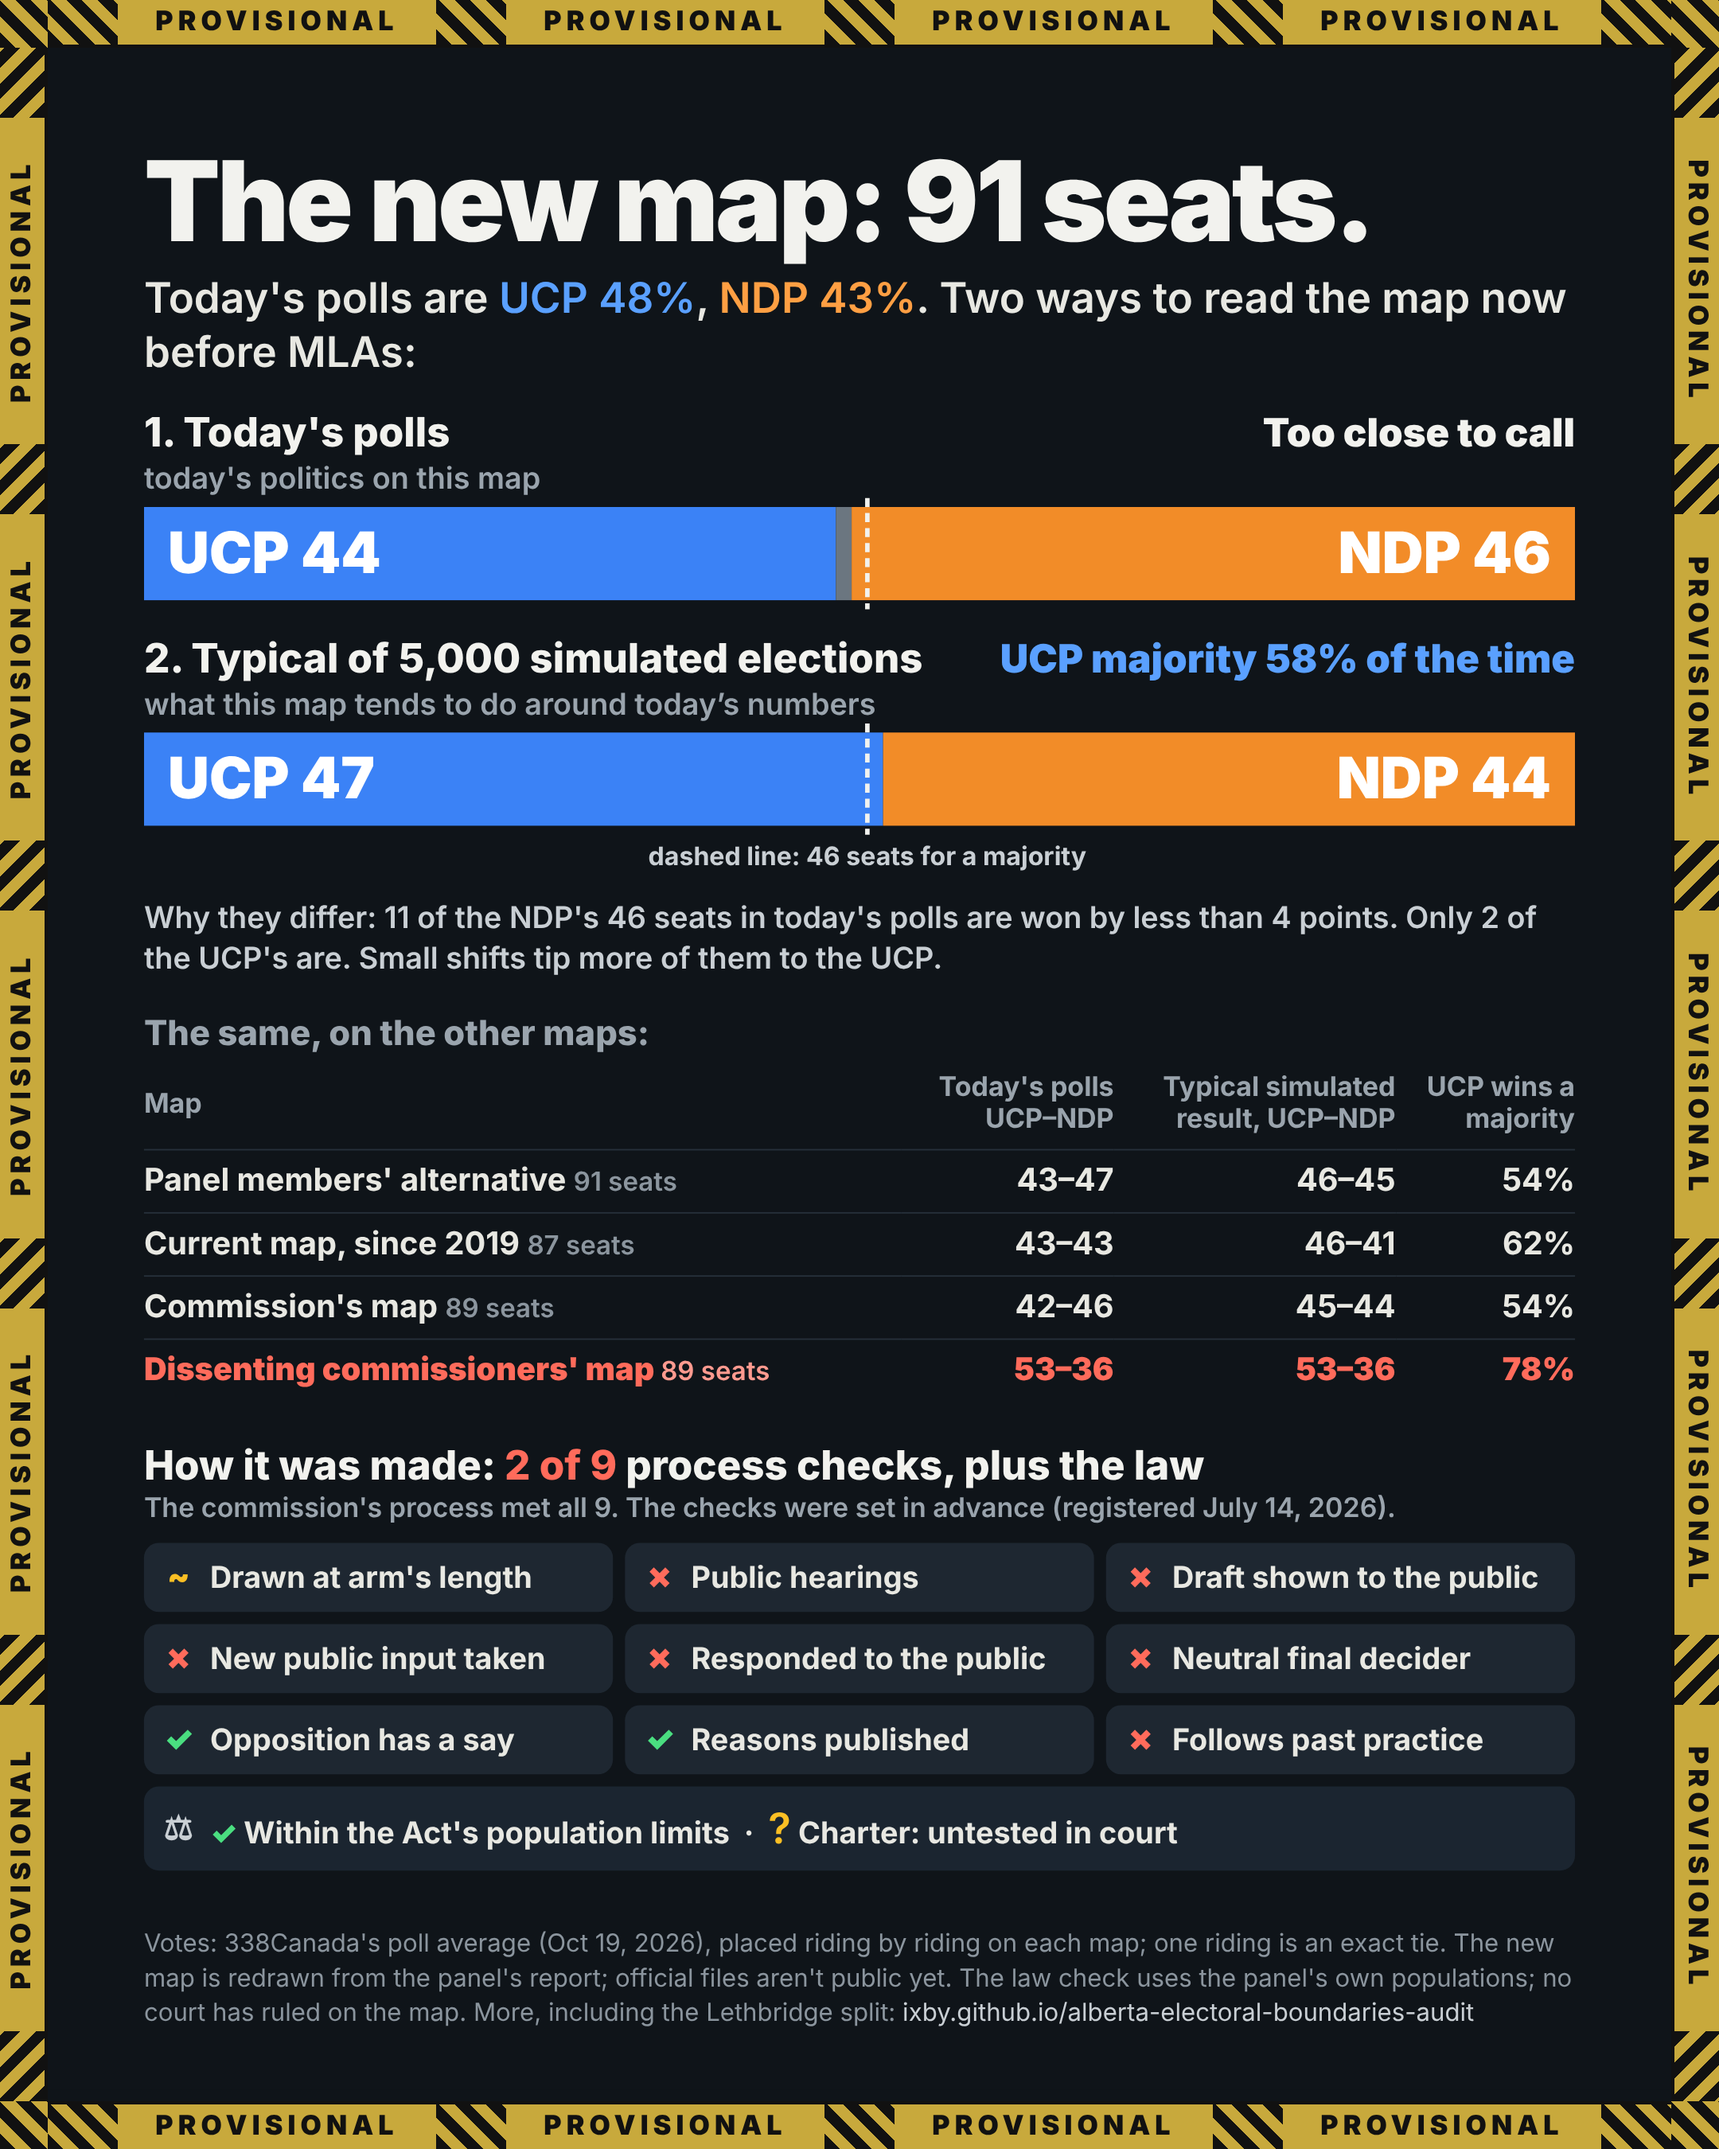
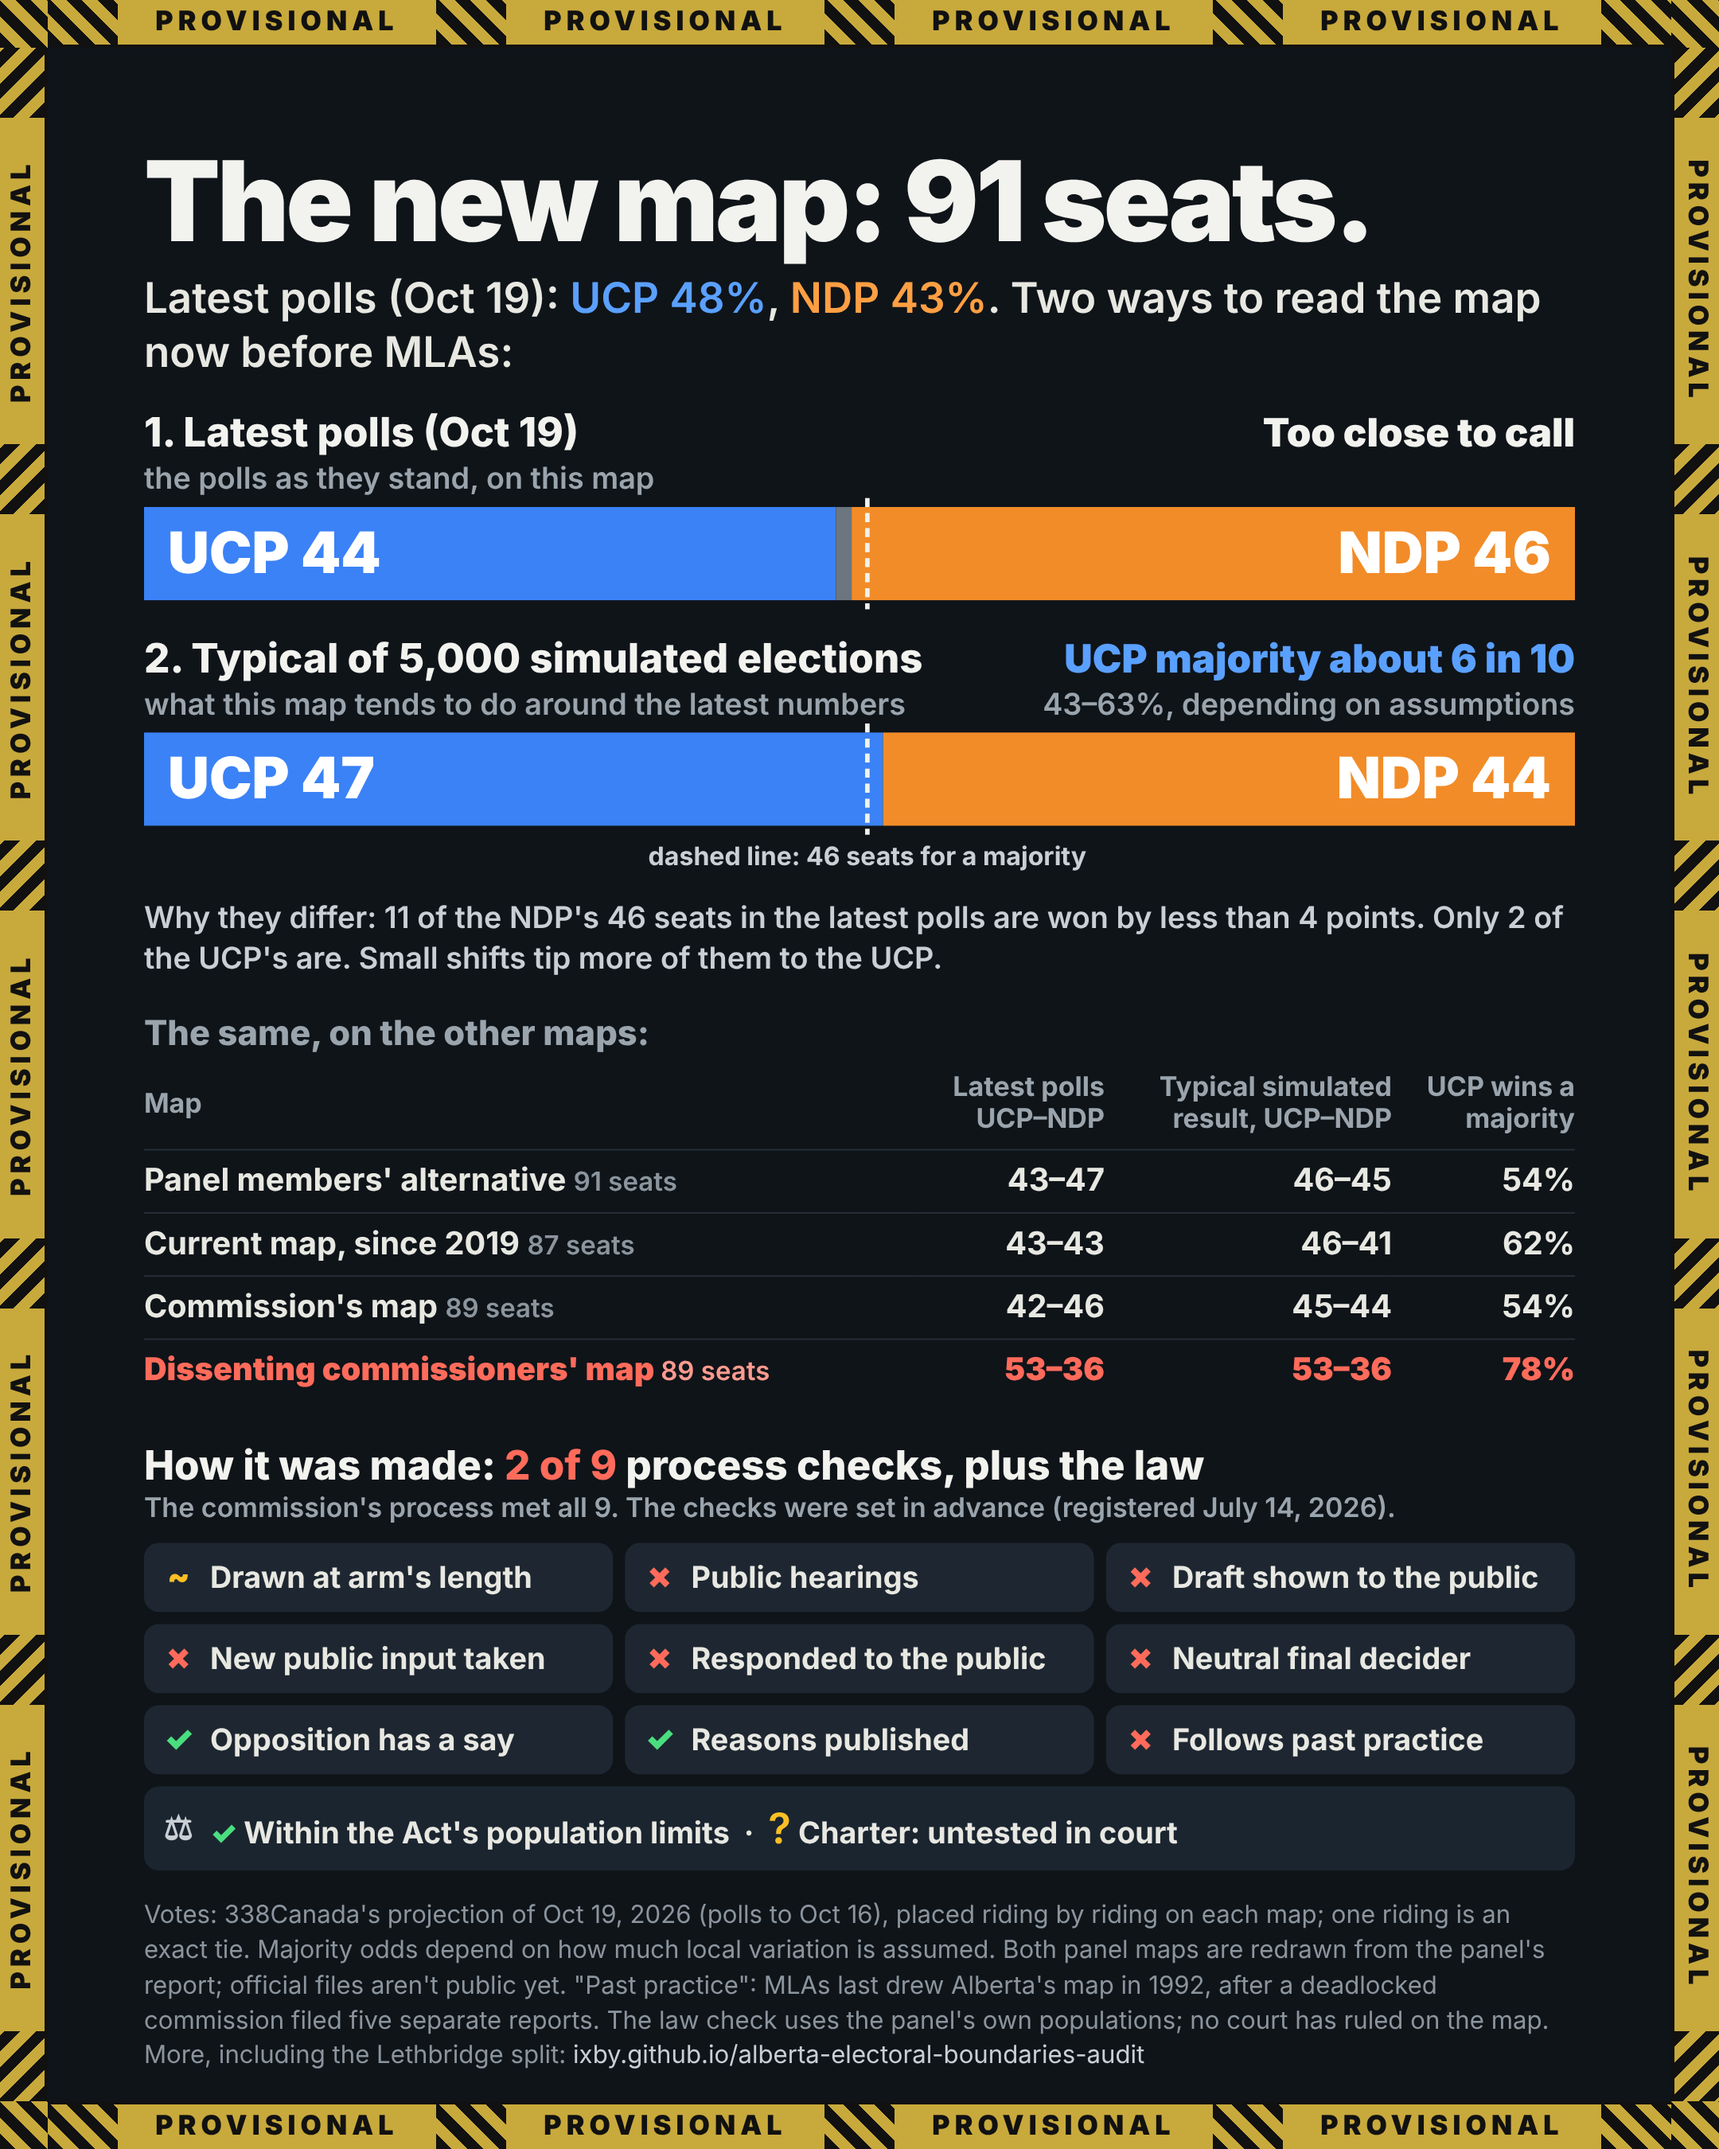
Meme: range for the majority odds, dated polls, both panel maps redrawn, 1992
- "UCP majority 58% of the time" becomes "about 6 in 10", with
  "43–63%, depending on assumptions" beneath it (no riding noise 43%,
  riding noise x1.5 63%).
- "Today's polls" becomes "Latest polls (Oct 19)"; the footer calls it
  338Canada's projection, with polls to Oct 16.
- The footer says both panel maps are redrawn from the panel's report.
- The footer gives the 1992 counter to "Follows past practice".

Items 2 (commission's 9 of 9 by construction) and 6 (48–43 rounding)
left as they were, at Wuff's request.

Claude-Session: https://claude.ai/code/session_018fR2piQUSLgKm3yG7SKLG7

diff --git a/findings/p338_projection/meme/same_votes_five_maps.html b/findings/p338_projection/meme/same_votes_five_maps.html
@@ -50,12 +50,12 @@
 </style></head>
 <body><div class="frame"><div class="inner"><div class="card">
   <h1>The new map: 91 seats.</h1>
-  <div class="q">Today's polls are <span class="u">UCP 48%</span>, <span class="n">NDP 43%</span>. Two ways to read the map now before MLAs:</div>
+  <div class="q">Latest polls (Oct 19): <span class="u">UCP 48%</span>, <span class="n">NDP 43%</span>. Two ways to read the map now before MLAs:</div>
   <svg id="main" width="952" height="318" viewBox="0 0 952 318"></svg>
-  <div class="why">Why they differ: 11 of the NDP's 46 seats in today's polls are won by less than 4 points. Only 2 of the UCP's are. Small shifts tip more of them to the UCP.</div>
+  <div class="why">Why they differ: 11 of the NDP's 46 seats in the latest polls are won by less than 4 points. Only 2 of the UCP's are. Small shifts tip more of them to the UCP.</div>
   <div class="ref">The same, on the other maps:</div>
   <table>
-    <tr><th>Map</th><th>Today's polls<br>UCP–NDP</th><th>Typical simulated<br>result, UCP–NDP</th><th>UCP wins a<br>majority</th></tr>
+    <tr><th>Map</th><th>Latest polls<br>UCP–NDP</th><th>Typical simulated<br>result, UCP–NDP</th><th>UCP wins a<br>majority</th></tr>
     <tr><td>Panel members' alternative <small>91 seats</small></td><td>43–47</td><td>46–45</td><td>54%</td></tr>
     <tr><td>Current map, since 2019 <small>87 seats</small></td><td>43–43</td><td>46–41</td><td>62%</td></tr>
     <tr><td>Commission's map <small>89 seats</small></td><td>42–46</td><td>45–44</td><td>54%</td></tr>
@@ -77,7 +77,7 @@
       <div class="c law"><i>⚖</i><span><b class="ok">✓</b> Within the Act's population limits &nbsp;·&nbsp; <b class="q">?</b> Charter: untested in court</span></div>
     </div>
   </div>
-  <div class="foot">Votes: 338Canada's poll average (Oct 19, 2026), placed riding by riding on each map; one riding is an exact tie. The new map is redrawn from the panel's report; official files aren't public yet. The law check uses the panel's own populations; no court has ruled on the map. More, including the Lethbridge split: <span style="white-space:nowrap;color:#c9cfd4">ixby.github.io/alberta-electoral-boundaries-audit</span></div>
+  <div class="foot">Votes: 338Canada's projection of Oct 19, 2026 (polls to Oct 16), placed riding by riding on each map; one riding is an exact tie. Majority odds depend on how much local variation is assumed. Both panel maps are redrawn from the panel's report; official files aren't public yet. "Past practice": MLAs last drew Alberta's map in 1992, after a deadlocked commission filed five separate reports. The law check uses the panel's own populations; no court has ruled on the map. More, including the Lethbridge split: <span style="white-space:nowrap;color:#c9cfd4">ixby.github.io/alberta-electoral-boundaries-audit</span></div>
 </div></div>
   <div class="band b-top"><span class="st"></span><span class="w">PROVISIONAL</span><span class="st"></span><span class="w">PROVISIONAL</span><span class="st"></span><span class="w">PROVISIONAL</span><span class="st"></span><span class="w">PROVISIONAL</span><span class="st"></span></div>
   <div class="band b-bot"><span class="st"></span><span class="w">PROVISIONAL</span><span class="st"></span><span class="w">PROVISIONAL</span><span class="st"></span><span class="w">PROVISIONAL</span><span class="st"></span><span class="w">PROVISIONAL</span><span class="st"></span></div>
@@ -103,8 +103,9 @@ function bar(y, u, t, n, title, sub, verdict, vcol) {
   el('text', {x: W - 16, y: by + 44, fill: '#fff', 'font-size': 38, 'font-weight': 900, 'text-anchor': 'end'}, 'NDP ' + n);
   el('line', {x1: NEED * s, y1: by - 6, x2: NEED * s, y2: by + h + 6, stroke: '#f2f2ee', 'stroke-width': 3, 'stroke-dasharray': '6 4'});
 }
-bar(0, 44, 1, 46, "1. Today's polls", "today's politics on this map", 'Too close to call', '#f2f2ee');
-bar(150, 47, 0, 44, '2. Typical of 5,000 simulated elections', 'what this map tends to do around today’s numbers', 'UCP majority 58% of the time', '#5aa0ff');
+bar(0, 44, 1, 46, '1. Latest polls (Oct 19)', 'the polls as they stand, on this map', 'Too close to call', '#f2f2ee');
+bar(150, 47, 0, 44, '2. Typical of 5,000 simulated elections', 'what this map tends to do around the latest numbers', 'UCP majority about 6 in 10', '#5aa0ff');
+el('text', {x: W, y: 150 + 54, fill: '#9aa4ad', 'font-size': 20, 'font-weight': 600, 'text-anchor': 'end'}, '43–63%, depending on assumptions');
 el('text', {x: NEED * s, y: 304, fill: '#c9cfd4', 'font-size': 17, 'font-weight': 700, 'text-anchor': 'middle'}, 'dashed line: 46 seats for a majority');
 </script>
 </body></html>

diff --git a/findings/p338_projection/README.md b/findings/p338_projection/README.md
@@ -150,13 +150,13 @@ All files are in this folder, `p338/sim/`.
 
 `data/maps/article/same_votes_five_maps.png` (1080×1350, rendered at 2×) is for a general reader. It centres on the panel's 91-seat map now before MLAs and reads it two ways, as Wuff framed it: one view speaks to today's politics on the map, the other to the map itself.
 
-1. **Today's polls** (today's politics on this map): UCP 44, NDP 46, 1 exact tie. Source: `out/results.json` `point.panel.proportional`. With NDP exactly on the 46-seat majority line and one tie, the chart calls it "Too close to call".
-2. **Typical of 5,000 simulated elections** (what this map tends to do around today's numbers): UCP 47, NDP 44; the UCP wins a majority 58% of the time. Source: `mc.main.maps.panel` `ucp_median`, `ndp_median` and `p_ucp_majority`.
-3. **Why they differ:** at today's numbers, 11 of the NDP's 46 projected wins on this map are by less than 4 points, against 2 of the UCP's 44 (`out/districts_panel.csv`). Polling error tips more of the NDP's narrow leads.
+1. **Latest polls (Oct 19)** (the polls as they stand, on this map): UCP 44, NDP 46, 1 exact tie. The label is 338Canada's update date; its newest poll was Mainstreet, Oct 16 (`evidence/projections/338canada_2026-10-19/README.md`). It is a projection built from polls, not a poll, and the footer says so. Source: `out/results.json` `point.panel.proportional`. With NDP exactly on the 46-seat majority line and one tie, the chart calls it "Too close to call".
+2. **Typical of 5,000 simulated elections** (what this map tends to do around the latest numbers): UCP 47, NDP 44; the UCP wins a majority "about 6 in 10" times, shown with its range, "43–63%, depending on assumptions". Source: `mc.main.maps.panel` `ucp_median`, `ndp_median` and `p_ucp_majority` (main 58%); the range is the panel column of the table under "Does it hold up under other assumptions?" (no riding noise 43%, riding noise × 1.5 63%).
+3. **Why they differ:** at the latest numbers, 11 of the NDP's 46 projected wins on this map are by less than 4 points, against 2 of the UCP's 44 (`out/districts_panel.csv`). Polling error tips more of the NDP's narrow leads.
 
 **Reference table, same two readings:**
 
-| Map | Today's polls | Typical simulation | UCP majority |
+| Map | Latest polls | Typical simulation | UCP majority |
 |---|---|---|---|
 | Panel members' alternative (91) | 43–47 | 46–45 | 54% |
 | Current map, since 2019 (87) | 43–43 | 46–41 | 62% |
@@ -180,5 +180,11 @@ All files are in this folder, `p338/sim/`.
 - **Scope:** the Act's rules bind commissions, not the Legislature's own bill, so "within the Act's limits" here is a yardstick.
 
 At Wuff's request this replaced the earlier punchline ("The new map isn't the outlier. The dissenting commissioners' map was."). The seat comparison still shows the new map in line with the others.
+
+**Gotcha fixes (2026-11-09, at Wuff's request; items 2 and 6 of the six raised were left as they were):**
+- The single 58% became "about 6 in 10" with its 43–63% range, and the footer says majority odds depend on how much local variation is assumed. The table's single figures stay at the main setting.
+- "Today's polls" became "Latest polls (Oct 19)": the projection is dated, and the footer gives the newest poll's date.
+- The footer says both panel maps (the panel's and its members' alternative) are redrawn from the panel's report, not only "the new map".
+- The footer gives the 1992 counter to "Follows past practice": MLAs last drew the map in 1992, after a deadlocked commission filed five separate reports (`findings/iap_stage1_part4.md` P9; `findings/procedural_analysis.md`).
 
 The chart counts seats only, and the footer points to the audit's local checks, such as the Lethbridge split. Source: `meme/same_votes_five_maps.html`; render with `node meme/render.cjs` (Playwright, Chromium).
